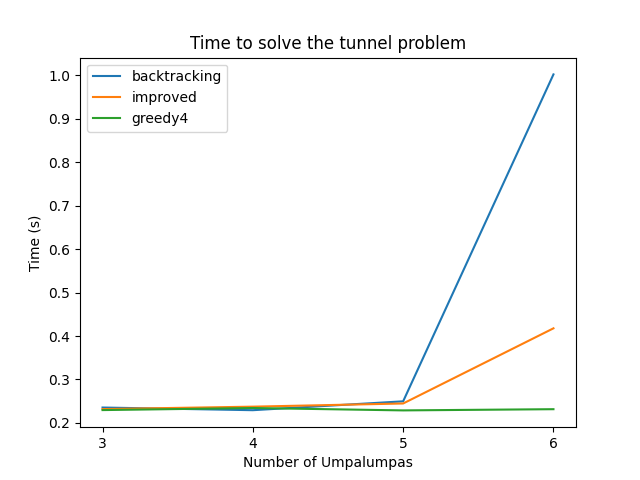
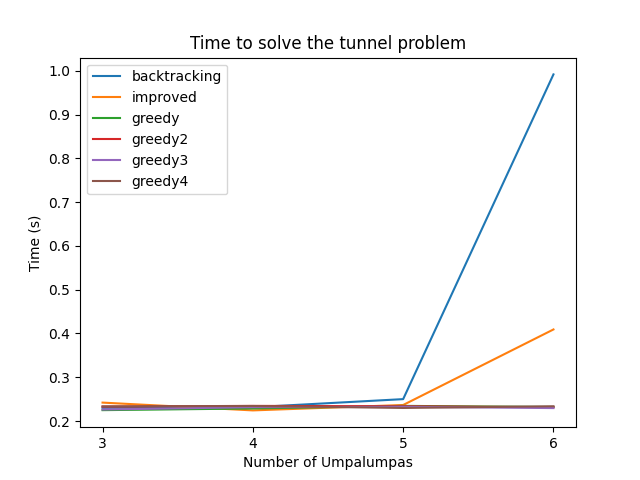
show all greedy options in graph

diff --git a/practica2/tunnel.py b/practica2/tunnel.py
@@ -108,7 +108,7 @@ def greedy(capacitat, fora, dins = [], entrem = True, temps = 0):
     # Continuar el procés recursivament canviant l'estat d'entrem
     return greedy(capacitat, fora, dins, not entrem, temps)
 
-
+@counted
 def greedy2(capacitat, fora, dins = [], entrem = True, rapids = True, temps = 0):
     if not fora:
         return temps
@@ -244,15 +244,15 @@ if __name__ == "__main__":
     elif args.algorithm == 'greedy2':
         solucio = greedy2( capacitat, umpalumpes )
         solucio = 0 if solucio == float('inf') else solucio
-        # print("CALLS:", greedy.calls)
+        # print("CALLS:", greedy2.calls)
     elif args.algorithm == 'greedy3':
         solucio = greedy3( capacitat, umpalumpes )
         solucio = 0 if solucio == float('inf') else solucio
-        # print("CALLS:", greedy.calls)
+        # print("CALLS:", greedy3.calls)
     elif args.algorithm == 'greedy4':
         solucio = greedy4( capacitat, umpalumpes )
         solucio = 0 if solucio == float('inf') else solucio
-        # print("CALLS:", greedy.calls)
+        # print("CALLS:", greedy4.calls)
     else:
         raise Exception("Unknown algorithm", args.algorithm)
     print(solucio)

diff --git a/practica2/checker.py b/practica2/checker.py
@@ -10,7 +10,7 @@ directory = "tests/"
 xinitial = 3
 xfinal = int(sys.argv[1])
 
-for algorithm in ["backtracking", "improved", "greedy4"]:
+for algorithm in ["backtracking", "improved", "greedy", "greedy2", "greedy3", "greedy4"]:
     times = []
     print("Algorithm: ", algorithm)
     for x in range(xinitial, xfinal + 1):
@@ -35,7 +35,7 @@ for algorithm in ["backtracking", "improved", "greedy4"]:
                 output_file = os.path.join(directory, f"output3-{x}-{instance}.txt")
                 subprocess.run(["diff", "output.txt", output_file], check=True)
             except subprocess.CalledProcessError:
-                if algorithm != 'greedy4':
+                if algorithm not in ["greedy", "greedy2", "greedy3", "greedy4"]:
                     print("#### Error in ", output_file)
                     raise
 
